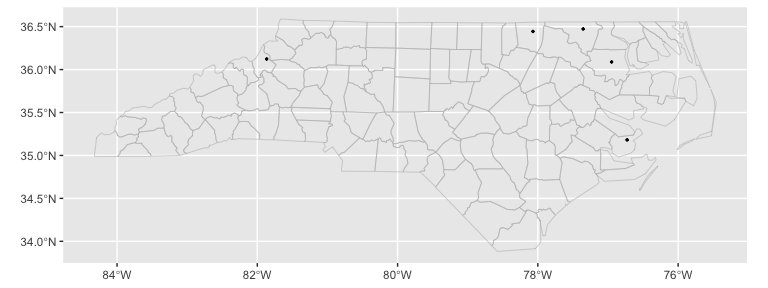
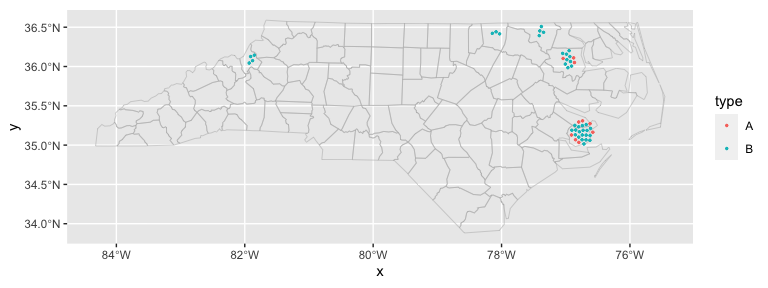
Fix position and centroids

diff --git a/README.md b/README.md
@@ -72,7 +72,7 @@ ggplot(nc_type_example2, aes(location = county)) +
 ``` r
 ggplot(nc_type_example2, aes(location = county)) +
   geom_boundaries(feature_type = "sf.nc") +
-  geom_centroids(aes(colour = type, scale = 6), size = 0.5)
+  geom_centroids(aes(colour = type), size = 0.5, position = position_circle_repel_sf(scale = 6))
 ```
 
 <img src="man/figures/README-example-basic-2.png" width="100%" />
